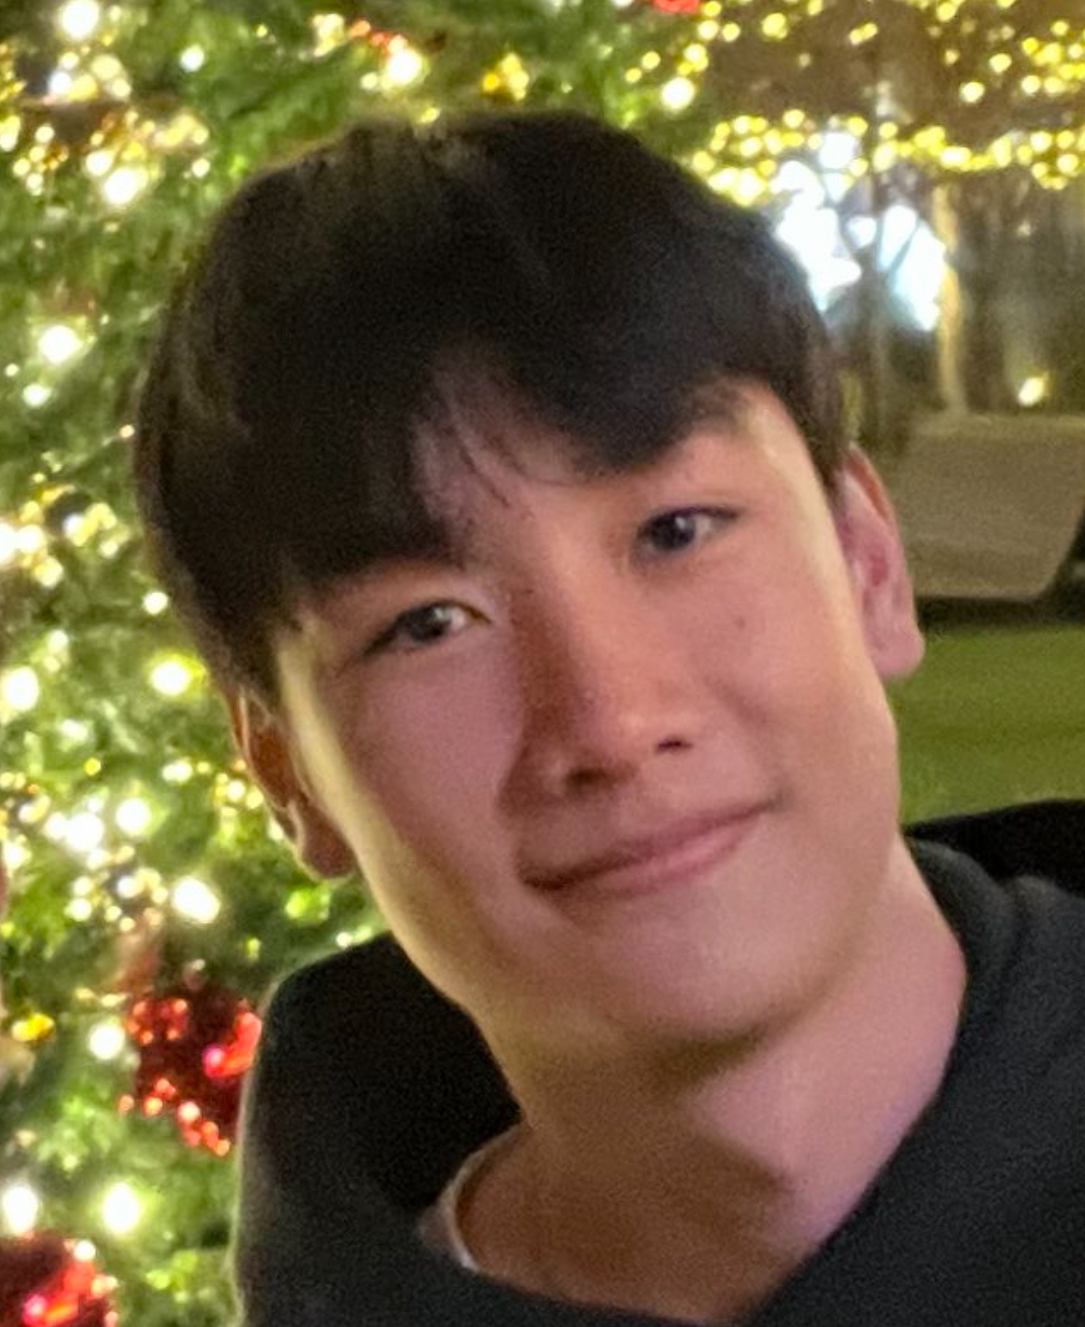
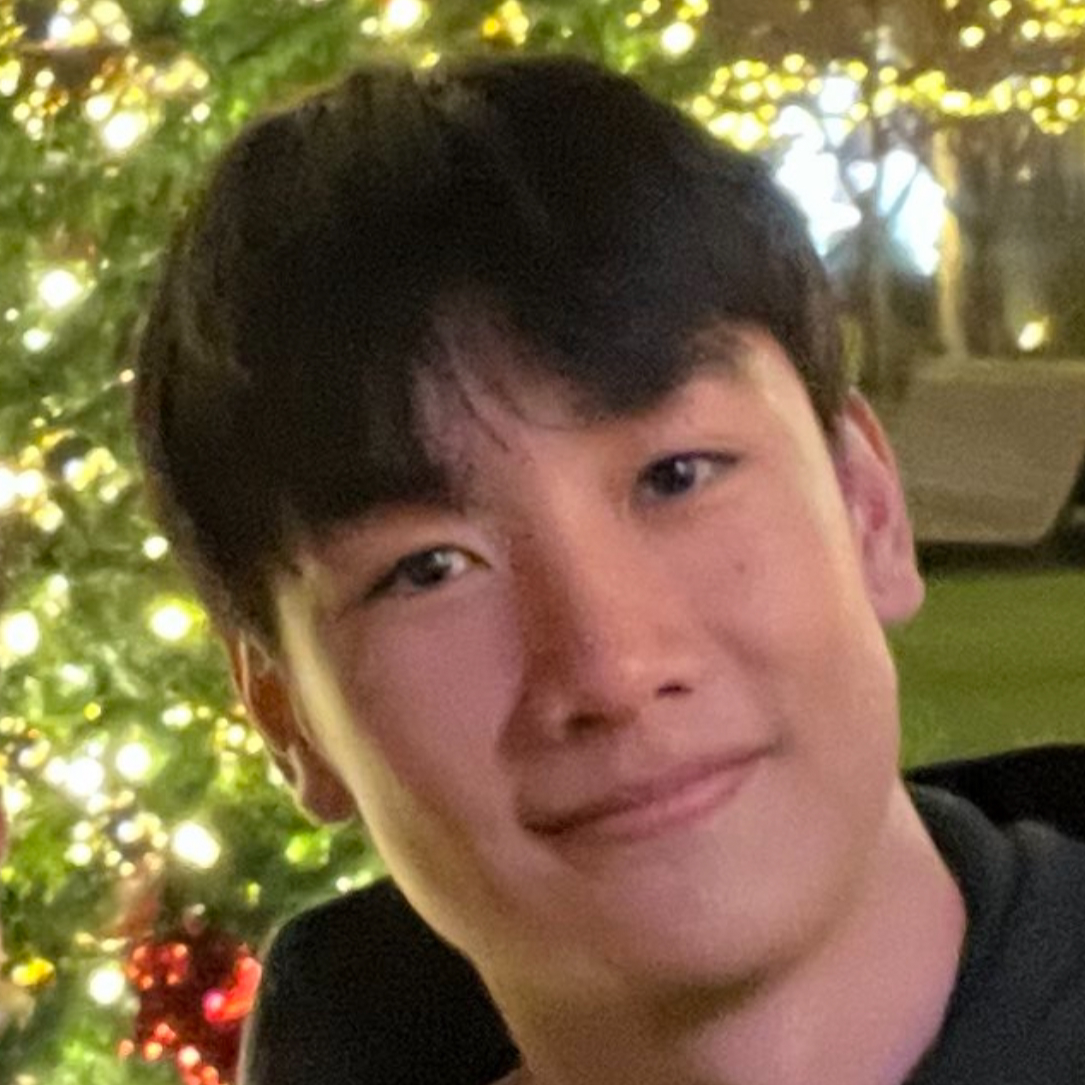
edited lemuel and added jooeun

diff --git a/about-us.html b/about-us.html
@@ -222,6 +222,18 @@
           </div>
         </div>
       </div>
+      <div class="col">
+        <div class="card h-100">
+          <img src="jooeun.png" class="card-img-top" alt="..." />
+          <div class="card-body">
+            <h5 class="card-title">Jooeun Heo</h5>
+            <h6 class="card-subtitle mb-2 text-muted">Member</h6>
+            <p class="card-text">
+              Jooeun Heo is junior that goes to Woodson High School. She hopes to spread more awareness to well known and not well known diseases and disabilities that exist. Through this, she hopes people become more welcoming and caring regarding this matter. She enjoys sleeping and eating.
+            </p>
+          </div>
+        </div>
+      </div>
     </div>
   </div>
 </div>
